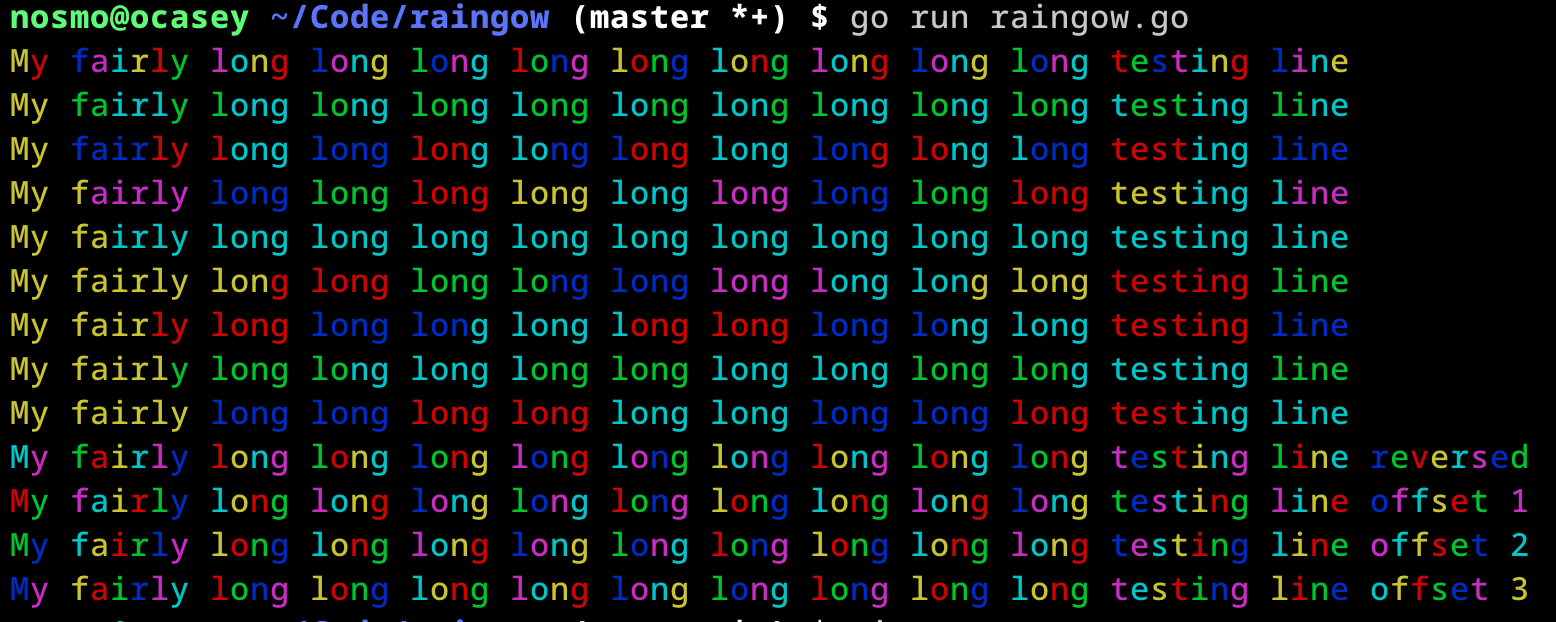
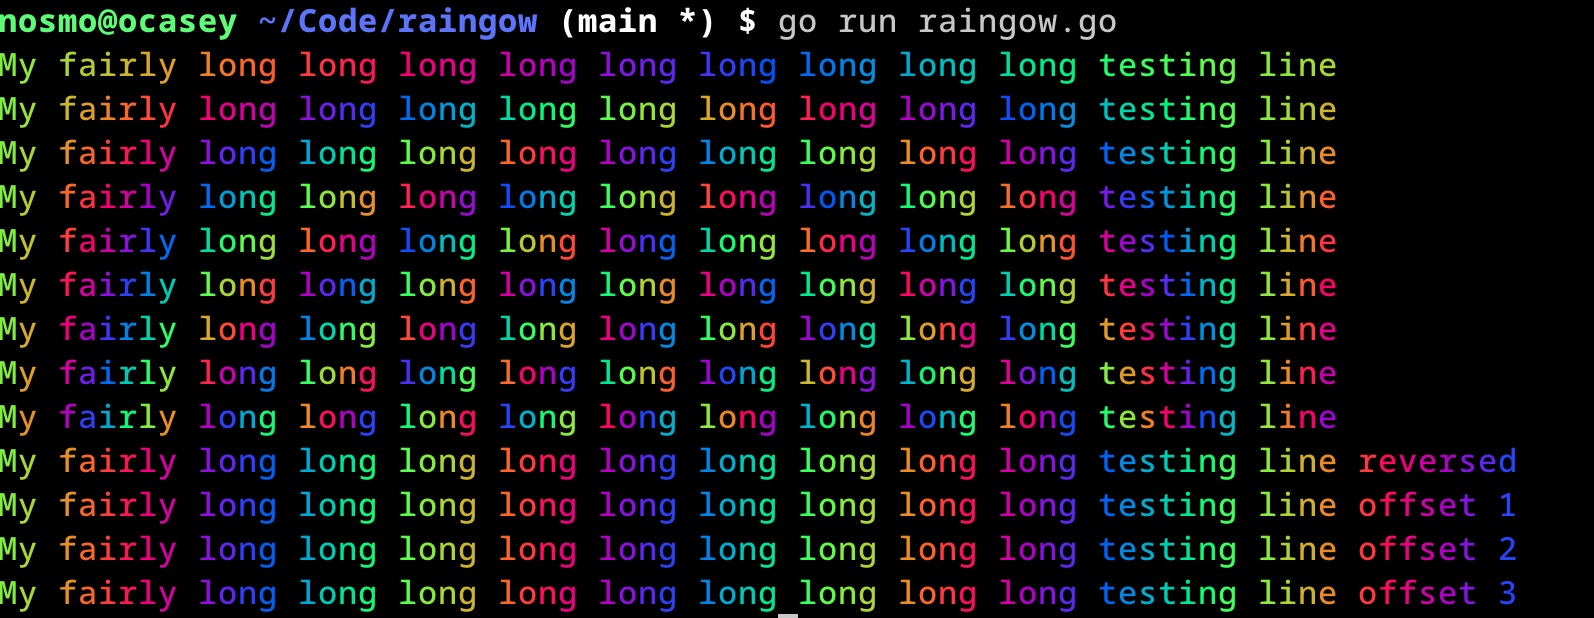
Switch to gookit color module, use lolcat colour output
Get better rainbow output using the lolcat rgb method, switch
libraries for more fine RBG control.

Changed region(s): [[0.0, 0.0, 0.9871, 1.0]]

diff --git a/raingow.go b/raingow.go
@@ -3,40 +3,30 @@ package main
 
 import (
 	"fmt"
-	"github.com/fatih/color"
+	"math"
+	"github.com/gookit/color"
 )
 
-func Raingow_line(source_str string, offset int, reverse_palette bool, span int) string {
+// Wholesale borrowed from https://github.com/busyloop/lolcat
+func colour_code(freq float64, spread float64) color.RGBColor {
+	red   := uint8(math.Sin(freq * spread + 0) * 127 + 128)
+	green := uint8(math.Sin(freq * spread + 2* math.Pi/3) * 127 + 128)
+	blue  := uint8(math.Sin(freq * spread + 4* math.Pi/3) * 127 + 128)
+	rgb_obj := color.RGB(red, green, blue)
+	return rgb_obj
+}
 
-	//var colours = [7]*color.Color{
-	var colours = [6]*color.Color{
-		color.New(color.FgYellow),
-		color.New(color.FgRed),
-		color.New(color.FgGreen),
-		color.New(color.FgBlue),
-		color.New(color.FgMagenta),
-		color.New(color.FgCyan),
-		//color.New(color.FgWhite),
-	}
 
-	var output_str = ""
+func Raingow_line(source_str string, offset int, reverse_palette bool, span float64) string {
+	// TODO give the ability to pass state of colour_index between
+	// iterations (or a different wrapper function) so that we can
+	// span colours across multiple lines
 
-	var span_count = 0
-	var colour_index = 0
+	output_str := ""
 
-	for i := 0; i < len(source_str); i++ {
-		current_char := string(source_str[i])
-
-		if span_count < span {
-			span_count += 1
-		} else {
-			colour_index = (i + offset) % len(colours)
-			if reverse_palette {
-				colour_index = ( len(colours) - 1) - ((i + offset) % len(colours))
-			}
-			span_count = 0
-		}
-		output_str = output_str + colours[colour_index].SprintFunc()(current_char)
+	for j := 0; j < len(source_str); j++ {
+		the_colour := colour_code(0.1, float64(j) * span)
+		output_str += the_colour.Sprintf(string(source_str[j]))
 	}
 
 	return output_str
@@ -44,18 +34,20 @@ func Raingow_line(source_str string, offset int, reverse_palette bool, span int)
 
 
 func main() {
+
+
 	// TODO why does span lead to the same colour after a few repetitions when the spam is len(colours)?
-	fmt.Println(Raingow_line("My fairly long long long long long long long long long testing line", 0, false, 0))
-	fmt.Println(Raingow_line("My fairly long long long long long long long long long testing line", 0, false, 2))
-	fmt.Println(Raingow_line("My fairly long long long long long long long long long testing line", 0, false, 3))
-	fmt.Println(Raingow_line("My fairly long long long long long long long long long testing line", 0, false, 4))
-	fmt.Println(Raingow_line("My fairly long long long long long long long long long testing line", 0, false, 5))
-	fmt.Println(Raingow_line("My fairly long long long long long long long long long testing line", 0, false, 6))
-	fmt.Println(Raingow_line("My fairly long long long long long long long long long testing line", 0, false, 7))
-	fmt.Println(Raingow_line("My fairly long long long long long long long long long testing line", 0, false, 8))
-	fmt.Println(Raingow_line("My fairly long long long long long long long long long testing line", 0, false, 9))
-	fmt.Println(Raingow_line("My fairly long long long long long long long long long testing line reversed", 0, true, 0))
-	fmt.Println(Raingow_line("My fairly long long long long long long long long long testing line offset 1", 1, false, 0))
-	fmt.Println(Raingow_line("My fairly long long long long long long long long long testing line offset 2", 2, false, 0))
-	fmt.Println(Raingow_line("My fairly long long long long long long long long long testing line offset 3", 3, false, 0))
+	fmt.Println(Raingow_line("My fairly long long long long long long long long long testing line", 0, false, 1.0))
+	fmt.Println(Raingow_line("My fairly long long long long long long long long long testing line", 0, false, 2.0))
+	fmt.Println(Raingow_line("My fairly long long long long long long long long long testing line", 0, false, 3.0))
+	fmt.Println(Raingow_line("My fairly long long long long long long long long long testing line", 0, false, 4.0))
+	fmt.Println(Raingow_line("My fairly long long long long long long long long long testing line", 0, false, 5.0))
+	fmt.Println(Raingow_line("My fairly long long long long long long long long long testing line", 0, false, 6.0))
+	fmt.Println(Raingow_line("My fairly long long long long long long long long long testing line", 0, false, 7.0))
+	fmt.Println(Raingow_line("My fairly long long long long long long long long long testing line", 0, false, 8.0))
+	fmt.Println(Raingow_line("My fairly long long long long long long long long long testing line", 0, false, 9.0))
+	fmt.Println(Raingow_line("My fairly long long long long long long long long long testing line reversed", 0, true, 3.0))
+	fmt.Println(Raingow_line("My fairly long long long long long long long long long testing line offset 1", 1, false, 3.0))
+	fmt.Println(Raingow_line("My fairly long long long long long long long long long testing line offset 2", 2, false, 3.0))
+	fmt.Println(Raingow_line("My fairly long long long long long long long long long testing line offset 3", 3, false, 3.0))
 }
